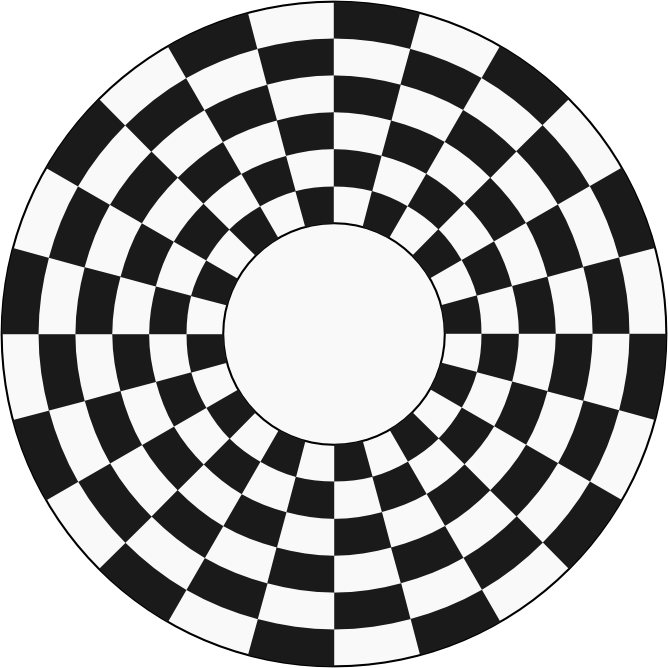
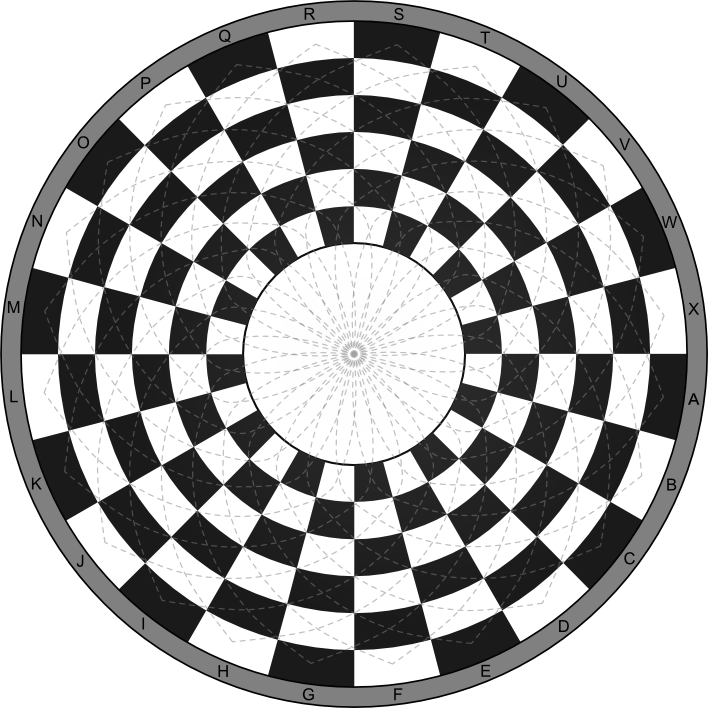
Improved chessboard graphics, made evertyhing drawing- / mouse-related relative to center instead of top-left to support the bigger chessboard.

diff --git a/J3Chess/src/j3chess/systems/PaintSystem.java b/J3Chess/src/j3chess/systems/PaintSystem.java
@@ -1,6 +1,7 @@
 package j3chess.systems;
 
 import j3chess.J3ChessApp;
+import j3chess.J3ChessView;
 import j3chess.Move;
 import j3chess.components.Paintable;
 import j3chess.components.Position;
@@ -8,6 +9,7 @@ import j3chess.components.ValidMovement;
 import j3chess.utility.Vector2d;
 
 import java.awt.Color;
+import java.awt.Graphics;
 import java.awt.Graphics2D;
 import java.awt.Point;
 
@@ -80,26 +82,27 @@ public class PaintSystem extends EntityProcessingSystem {
                     mDrawPanelSize.x, mDrawPanelSize.y);
         }
 
-        J3ChessApp
-                .getInstance()
-                .getDrawGraphics()
-                .drawImage(
+        final Graphics2D graphics = J3ChessApp.getInstance()
+                .getDrawGraphics();
+        graphics.drawImage(
                         paintable.getImage(),
-                        Math.round(drawPosition.x + paintable.getDrawOffset().x),
-                        Math.round(drawPosition.y + paintable.getDrawOffset().y),
+                        Math.round(drawPosition.x + paintable.getDrawOffset().x
+                        		+ mDrawOffset.x),
+                        Math.round(drawPosition.y + paintable.getDrawOffset().y
+                        		+ mDrawOffset.y),
                         null);
 
         if (J3ChessApp.getInstance().getGame().getSelectedPiece() == entity) {
-            final Graphics2D graphics = J3ChessApp.getInstance()
-                    .getDrawGraphics();
 
             // Draw selection ring
             graphics.drawImage(
                     SELECTION_OVERLAY.getImage(),
-                    Math.round(drawPosition.x
-                            - SELECTION_OVERLAY.getIconWidth() / 2.0f),
+                    Math.round(Math.round(drawPosition.x
+                            - SELECTION_OVERLAY.getIconWidth() / 2.0f
+                            + mDrawOffset.x)),
                     Math.round(drawPosition.y
-                            - SELECTION_OVERLAY.getIconHeight() / 2.0f), null);
+                            - SELECTION_OVERLAY.getIconHeight() / 2.0f
+                            + mDrawOffset.y), null);
 
             // Draw valid moves
             final ValidMovement moves = (ValidMovement) entity
@@ -110,8 +113,10 @@ public class PaintSystem extends EntityProcessingSystem {
                         .getDrawPosition(mDrawPanelSize.x, mDrawPanelSize.y);
                 graphics.drawImage(
                         MOVE_OVERLAY.getImage(),
-                        Math.round(fDrawPosition.x - MOVE_OVERLAY.getIconWidth() / 2.0f),
-                        Math.round(fDrawPosition.y - MOVE_OVERLAY.getIconHeight() / 2.0f), null);
+                        Math.round(fDrawPosition.x - MOVE_OVERLAY.getIconWidth() / 2.0f
+                        		+ mDrawOffset.x),
+                        Math.round(fDrawPosition.y - MOVE_OVERLAY.getIconHeight() / 2.0f
+                        		+ mDrawOffset.y), null);
             }
 
             for (final Move move : moves.getValidCaptureMoves()) {
@@ -119,15 +124,21 @@ public class PaintSystem extends EntityProcessingSystem {
                         .getDrawPosition(mDrawPanelSize.x, mDrawPanelSize.y);
                 graphics.drawImage(
                         CAPTURE_OVERLAY.getImage(),
-                        Math.round(fDrawPosition.x - MOVE_OVERLAY.getIconWidth() / 2.0f),
-                        Math.round(fDrawPosition.y - MOVE_OVERLAY.getIconHeight() / 2.0f), null);
+                        Math.round(fDrawPosition.x - MOVE_OVERLAY.getIconWidth() / 2.0f
+                        		+ mDrawOffset.x),
+                        Math.round(fDrawPosition.y - MOVE_OVERLAY.getIconHeight() / 2.0f
+                        		+ mDrawOffset.y), null);
             }
 
         }
     }
 
     /** @brief size of the draw panel */
-    private final Point mDrawPanelSize = new Point(668, 668);
+    private final Point mDrawPanelSize = new Point(J3ChessView.CHESSBOARDWIDTH,
+    		J3ChessView.CHESSBOARDHEIGHT);
+    
+    private final Vector2d mDrawOffset = new Vector2d((J3ChessView.DRAWPANELWIDTH - mDrawPanelSize.x) / 2.0f,
+    		(J3ChessView.DRAWPANELHEIGHT - mDrawPanelSize.x) / 2.0f);
 
     /**
      * @brief setter for the mDrawPanelSize member

diff --git a/J3Chess/src/j3chess/J3ChessView.java b/J3Chess/src/j3chess/J3ChessView.java
@@ -26,11 +26,19 @@ public class J3ChessView extends FrameView {
     /**
      * Height of the Chessboard.
      */
-    public static final int CHESSBOARDHEIGHT = 700;
+    public static final int CHESSBOARDHEIGHT = 664;
     /**
      * Width of the Chessboard.
      */
-    public static final int CHESSBOARDWIDTH = 700;
+    public static final int CHESSBOARDWIDTH = 664;
+    /**
+     * Height of the DrawPanel.
+     */
+    public static int DRAWPANELHEIGHT;
+    /**
+     * Width of the DrawPanel.
+     */
+    public static int DRAWPANELWIDTH;
     /**
      * Path to the ChessboardImage.
      */
@@ -67,19 +75,20 @@ public class J3ChessView extends FrameView {
      */
     private void initialize() {
         ImageIcon chessboardImage = new ImageIcon(mChessboardImagePath);
-
-        //scale the chessboard
-        chessboardImage.setImage(chessboardImage.getImage().
-                getScaledInstance(CHESSBOARDWIDTH, CHESSBOARDHEIGHT, Image.SCALE_DEFAULT));
+        chessboardImage.setImage(chessboardImage.getImage());
+        
+        final int border = 12;
+        DRAWPANELWIDTH = chessboardImage.getIconWidth() + border;
+        DRAWPANELHEIGHT = chessboardImage.getIconHeight() + border;
 
 
         JPanel mainPanel = new JPanel();
         mainPanel.setLayout(new GridBagLayout());
 
         //  TODO Read values from image / style file
-        mainPanel.setPreferredSize(new Dimension(700, 700));
-        mDrawPanel = new DrawPanel(668, 668);
-        mNotationPanel = new NotationPanel(300, 700);
+        mainPanel.setPreferredSize(new Dimension(DRAWPANELWIDTH + 8, DRAWPANELHEIGHT + 8));
+        mDrawPanel = new DrawPanel(DRAWPANELWIDTH, DRAWPANELHEIGHT);
+        mNotationPanel = new NotationPanel(300, 728);
         mainPanel.add(mDrawPanel, new GridBagConstraints());
 
         this.getFrame().getContentPane().setLayout(new FlowLayout());

diff --git a/J3Chess/src/j3chess/DrawPanel.java b/J3Chess/src/j3chess/DrawPanel.java
@@ -1,5 +1,7 @@
 package j3chess;
 
+import j3chess.utility.Vector2d;
+
 import java.awt.Dimension;
 import java.awt.Graphics;
 import java.awt.Graphics2D;
@@ -51,8 +53,11 @@ public class DrawPanel extends JComponent implements MouseListener {
     @Override
     public void mousePressed(MouseEvent arg0) {
         // Resize x and y to [-1,1] range
-        final float x = ((float) arg0.getX() / (float) arg0.getComponent().getWidth()) * 2.0f - 1.0f;
-        final float y = ((float) arg0.getY() / (float) arg0.getComponent().getHeight()) * 2.0f - 1.0f;
+    	final Vector2d offset = new Vector2d((J3ChessView.DRAWPANELWIDTH
+    			- J3ChessView.CHESSBOARDWIDTH) / 2.0f, (J3ChessView.DRAWPANELHEIGHT
+    	        - J3ChessView.CHESSBOARDHEIGHT) / 2.0f);
+        final float x = ((float) (arg0.getX() - offset.x) / (float) J3ChessView.CHESSBOARDWIDTH) * 2.0f - 1.0f;
+        final float y = ((float) (arg0.getY() - offset.y) / (float) J3ChessView.CHESSBOARDHEIGHT) * 2.0f - 1.0f;
 
         // Get the field that the player clicked on
         final Field clickedField = J3ChessApp.getInstance().getGame().getChessboard().getFieldByXY(x, y);

diff --git a/J3Chess/src/j3chess/Field.java b/J3Chess/src/j3chess/Field.java
@@ -85,7 +85,7 @@ public class Field {
         return (Math.abs(next.mCircle - mCircle) + Math.abs(next.mColumn - mColumn) > 2);
          */
 
-        if (mColumn == Chessboard.NUMBEROFCOLUMNS - 1) {
+        if (mCircle == Chessboard.NUMBEROFCIRCLES - 1) {
             if (fieldDirection == FieldDirection.In
                     || fieldDirection == FieldDirection.InClockwise
                     || fieldDirection == FieldDirection.InCounterClockwise) {
